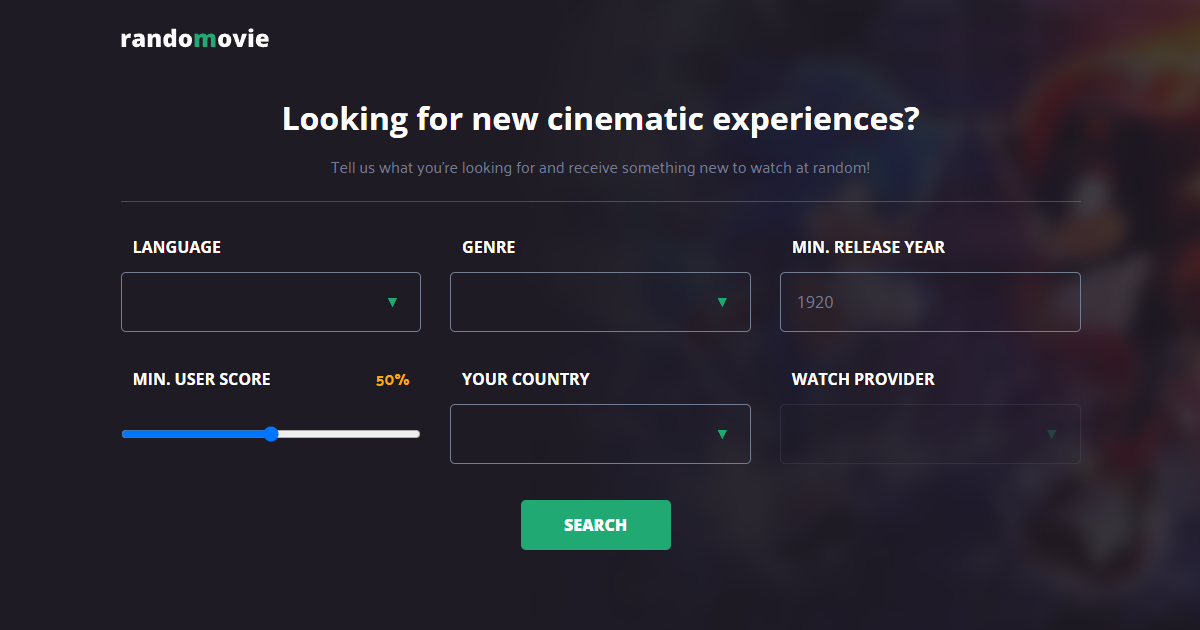
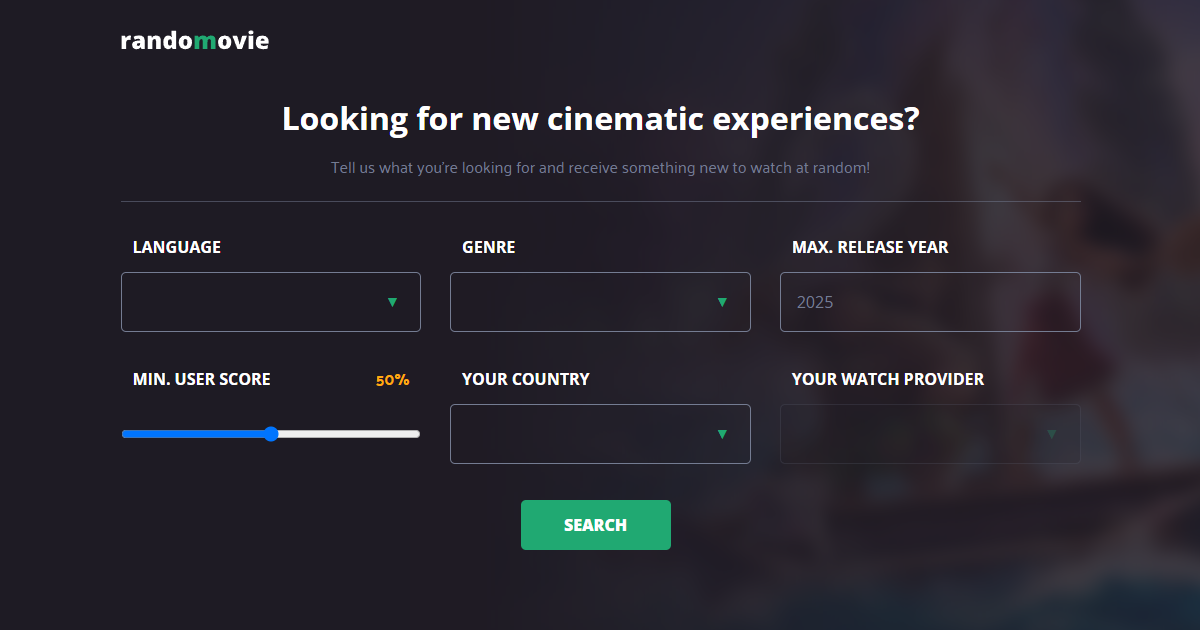
Replaced Min. Release Year field with Max. Release Year

diff --git a/src/components/section/Hero.js b/src/components/section/Hero.js
@@ -5,8 +5,11 @@ import Select from "../form/Select";
 import Score from "../Score";
 
 const minYear = 1920;
+const maxYear = new Date().getFullYear()
+// const maxLength = 400
 const maxProviders = 10;
 const defaultScore = 50;
+// const defaultLength = maxLength/2
 
 export default function Hero({onSubmit}) {
 
@@ -18,8 +21,10 @@ export default function Hero({onSubmit}) {
     const [formData, setFormData] = useState({
         language: "",
         genre_id: "",
-        min_release_year: minYear,
+        // min_release_year: minYear,
+        max_release_year: maxYear,
         min_score: defaultScore,
+        // max_length: defaultLength,
         country: "",
         provider_id: ""
     });
@@ -99,7 +104,8 @@ export default function Hero({onSubmit}) {
 
     function handleSubmit() {
         const formDataCopy = { ...formData };
-        formDataCopy.min_release_year += "-01-01"
+        // formDataCopy.min_release_year += "-01-01"
+        formDataCopy.max_release_year += "-12-31"
         formDataCopy.min_score /= 10;
         onSubmit(formDataCopy)
     }
@@ -134,14 +140,24 @@ export default function Hero({onSubmit}) {
                                 onChangeOption={handleGenreChange}>
                             </Select>
 
+                            {/*<div className="form-item">*/}
+                            {/*    <label htmlFor="min-year-input">Min. Release Year</label>*/}
+                            {/*    <input type="number" min={minYear} max={new Date().getFullYear()}*/}
+                            {/*           step="1" name="min-year"*/}
+                            {/*           id="min-year-input"*/}
+                            {/*           value={formData.min_release_year}*/}
+                            {/*           onChange={(e) =>*/}
+                            {/*               setFormData({...formData, min_release_year: e.target.value})}/>*/}
+                            {/*</div>*/}
+
                             <div className="form-item">
-                                <label htmlFor="min-year-input">Min. Release Year</label>
-                                <input type="number" min={minYear} max={new Date().getFullYear()}
+                                <label htmlFor="max-year-input">Max. Release Year</label>
+                                <input type="number" min={minYear} max={maxYear}
                                        step="1" name="min-year"
-                                       id="min-year-input"
-                                       value={formData.min_release_year}
+                                       id="max-year-input"
+                                       value={formData.max_release_year}
                                        onChange={(e) =>
-                                           setFormData({...formData, min_release_year: e.target.value})}/>
+                                           setFormData({...formData, max_release_year: e.target.value})}/>
                             </div>
 
                             <div className="form-item">
@@ -156,6 +172,18 @@ export default function Hero({onSubmit}) {
                                        onChange={(e) =>
                                            setFormData({...formData, min_score: e.target.value})}/>
                             </div>
+
+                            {/*<div className="form-item">*/}
+                            {/*    <div className="range-label"><label htmlFor="max-length-input">Max. Length</label>*/}
+                            {/*        <Score percentage={formData.max_length}></Score>*/}
+                            {/*    </div>*/}
+                            {/*    <input type="range" min="0" max={maxLength} step="1" placeholder={defaultLength}*/}
+                            {/*           name="max-length"*/}
+                            {/*           id="max-length-input"*/}
+                            {/*           value={formData.max_length}*/}
+                            {/*           onChange={(e) =>*/}
+                            {/*               setFormData({...formData, max_length: e.target.value})}/>*/}
+                            {/*</div>*/}
 
                             <Select
                                 data={countries}

diff --git a/src/components/App.js b/src/components/App.js
@@ -14,7 +14,8 @@ const defaultQueryURL = global.config.API.URL + "discover/movie" + global.config
 const queryParameters = {
     language: "&with_original_language=",
     genre_id: "&with_genres=",
-    min_release_year: "&primary_release_date.gte=",
+    // min_release_year: "&primary_release_date.gte=",
+    max_release_year: "&primary_release_date.lte=",
     min_score: "&vote_average.gte=",
     country: "&watch_region=",
     provider_id: "&with_watch_providers="
